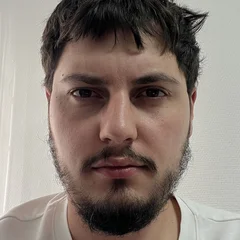
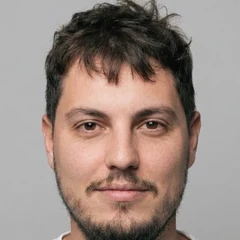
Промпт для VS Code: одно фото в «Обо мне» + фото и аватарка
Claude-Session: https://claude.ai/code/session_01Ea7sNnJutX3PZfqWbVPvng

diff --git a/docs/site/prompt-about-photo-v1.md b/docs/site/prompt-about-photo-v1.md
@@ -1,0 +1,58 @@
+# «Обо мне»: одно фото на все три слова
+
+Прочитай `CLAUDE.md` (разделы «Медиа», «Доступность»). Файл: `src/components/sections/AboutSwitch.vue`.
+
+Решение владельца: справа в блоке «Обо мне» одно фото. При смене слов «Дизайн / Реклама / Цифры» меняются только слово и строка под ним, фото стоит на месте. Автолистание, клик, клавиатура, табы и плашка «Станислав» — без изменений.
+
+Файлы в Yandex Object Storage (владелец загрузит сам):
+- `https://storage.yandexcloud.net/landing-main/about/photo.webp` — 800×1000, 4:5
+- `https://storage.yandexcloud.net/landing-main/about/avatar.webp` — 240×240 (адрес не меняется, заменён только файл)
+
+## 1. Данные в `<script setup>`
+
+- Из объектов `items` убрать поля `photo` и `alt`. Остаются `word` и `note`, `num` считается как раньше.
+- Рядом с `AVATAR` добавить:
+
+```js
+// одно фото на все три слова — меняется только текст слева
+const PHOTO = 'https://storage.yandexcloud.net/landing-main/about/photo.webp'
+const PHOTO_ALT = 'Станислав — дизайнер карточек для маркетплейсов'
+```
+
+- Убрать `// TODO`-комментарии про плейсхолдеры фото и аватара.
+- `PHOTO_W` / `PHOTO_H` (800 / 1000), `broken`, `markBroken` и проверку упавших картинок в `onMounted` оставить: они нужны, пока файлов нет в хранилище.
+
+## 2. Шаблон
+
+Вместо `<img v-for="(item, i) in items" … class="about__photo" …>` — одна картинка:
+
+```vue
+<img
+  class="about__photo"
+  :class="{ 'is-broken': broken.has(PHOTO) }"
+  :src="PHOTO"
+  :alt="PHOTO_ALT"
+  :width="PHOTO_W"
+  :height="PHOTO_H"
+  loading="lazy"
+  decoding="async"
+  @error="markBroken(PHOTO)"
+/>
+```
+
+Обёртку `#about-stage` (role, aria, tabindex) и плашку `about__chip` с аватаркой не трогать.
+
+## 3. Стили
+
+У `.about__photo` убрать то, что нужно было только для смены фото: `opacity: 0`, `transform: scale(1.04)`, `transition`, и правило `.about__photo.is-active`. Фото видно всегда. `position: absolute; inset: 0; width/height: 100%; object-fit: cover;` и правило `.is-broken` оставить.
+
+Если после правок какие-то токены или keyframes больше нигде не используются (проверь grep'ом по `src/`), удали их.
+
+## 4. Проверка
+
+1. Главная → «Обо мне»: справа одно фото. Слова переключаются сами каждые ~2.6 с, строка под словом меняется, фото стоит на месте без мигания.
+2. Клик по «Цифры» держит слово 10 секунд, Tab и стрелки работают как раньше.
+3. Плашка «Станислав» показывает новую аватарку.
+4. Пока файлов нет в хранилище, на месте фото бежевый фон, ошибок в консоли нет, кроме 404 на сами картинки.
+5. 1440 / 1024 / 375: фото 4:5 без искажений, лицо не обрезано.
+6. `npm run build` без ошибок. Коммит: «Обо мне: одно фото на все три слова». Потом `git push`.
